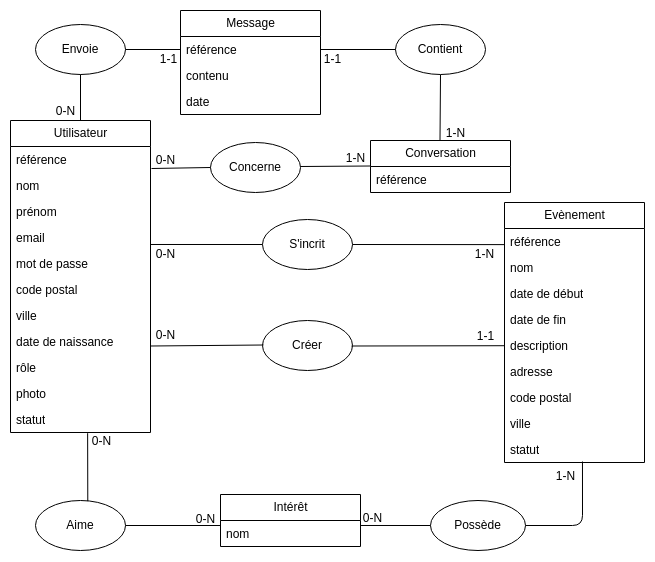
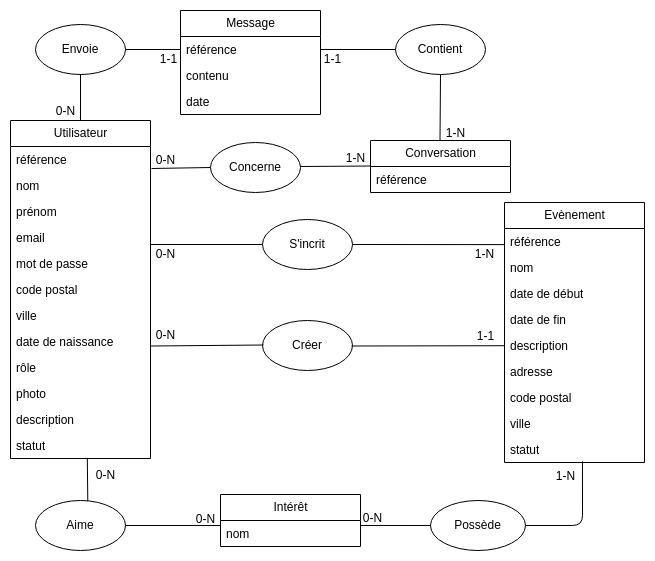
docs : add description into the table user

diff --git a/conception/database_modelling/data_dictionary.md b/conception/database_modelling/data_dictionary.md
@@ -14,6 +14,7 @@
 | date_of_birth | DATE | NOT NULL| L'âge de l'utilisateur |
 | role | TEXT | NOT NULL | Le rôle de l'utilisateur |
 | photo | TEXT | DEFAULT "lien"| photo de profil de l'utilisateur |
+| description | TEXT | | La description de l'utilisateur |
 | status | ENUM | NOT NULL DEFAULT PENDING | Le statut de l'utilisateur (valide, en attente de validation, bloqué, désactivé) |
 | created_at | TIMESTAMP | NOT NULL, DEFAULT CURRENT_TIMESTAMP | La date de création de l'utilisateur |
 | updated_at | TIMESTAMP | NOT NULL, DEFAULT CURRENT_TIMESTAMP | La date de dernière modification de l'utilisateur |
